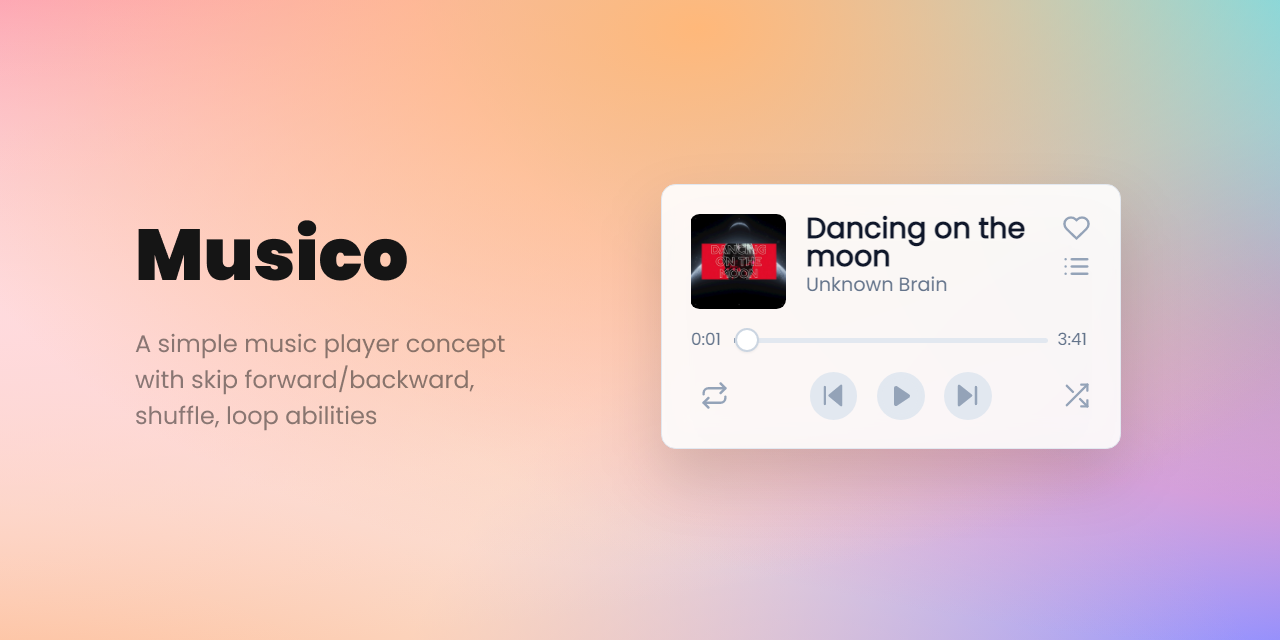
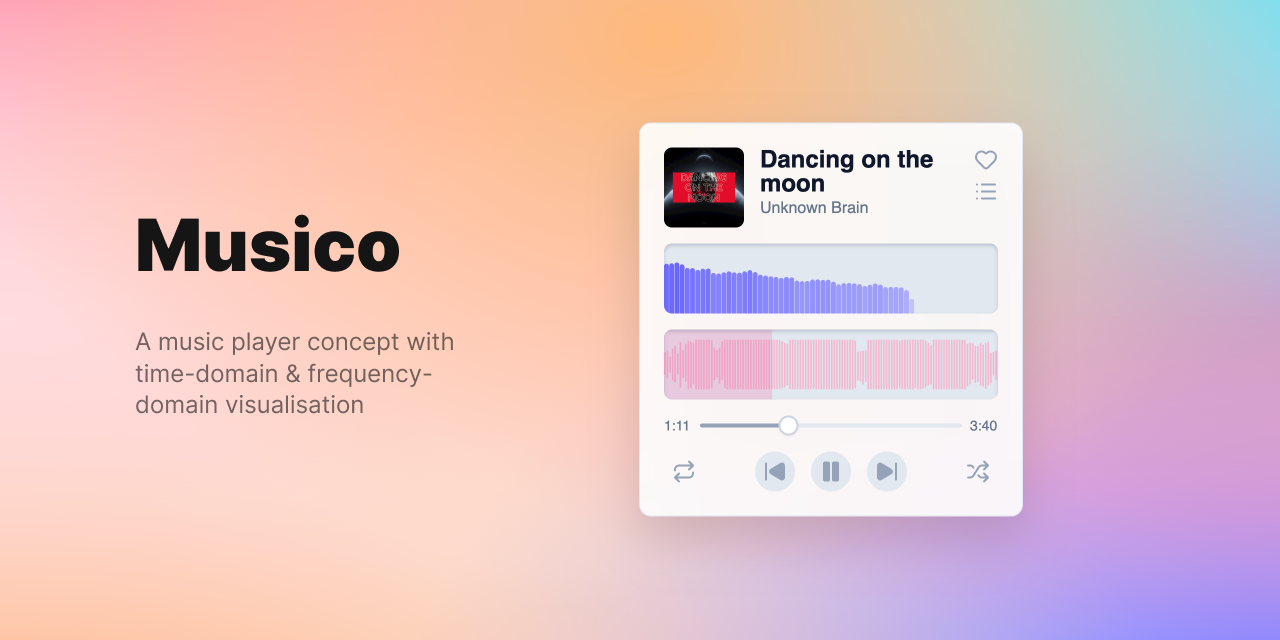
Time-domain & frequency-domain visualisation

Changed region(s): [[0.5, 0.1875, 0.875, 0.8438], [0.0938, 0.5, 0.4062, 0.6875], [0.0938, 0.3438, 0.3438, 0.4375]]

diff --git a/src/store/player.ts b/src/store/player.ts
@@ -39,6 +39,8 @@ const initialState: T_PlayerState = {
 
 class PlayerStore {
   private _audio: HTMLAudioElement;
+  private _audioContext: AudioContext | null;
+  private _source: MediaElementAudioSourceNode | null;
   private _snapshot: T_PlayerState;
   private _listeners: Set<() => void>;
 
@@ -75,6 +77,8 @@ class PlayerStore {
     this._snapshot = initialState;
     this._listeners = new Set();
     this.loadTrack(0);
+    this._source = null;
+    this._audioContext = null;
 
     this._audio.addEventListener("loadstart", this._handleLoading);
     this._audio.addEventListener("canplay", this._handleReady);
@@ -106,6 +110,12 @@ class PlayerStore {
       return;
     }
     this._audio.play();
+    if (!this._source) {
+      const { source, audioContext } = visualizeFreq(this._audio);
+      this._source = source;
+      this._audioContext = audioContext;
+    }
+
     this.emit({ isPlaying: true });
   }
   private pause() {
@@ -119,6 +129,7 @@ class PlayerStore {
     const track = this._snapshot.playlist[newIndex].audio;
     this._audio.src = track;
     this._audio.load();
+    getAudioContext(track);
 
     this.emit({ currentIndex: newIndex, status: "loading", trackTime: 0, duration: 0 });
   }
@@ -199,6 +210,15 @@ class PlayerStore {
     if (isAllSame) return;
     this.emit({ shuffleList: [...newOrder] });
   };
+  // public getAudioStream = () => {
+  //   visualizeFreq(frequencyBufferLength, analyser, frequencyData);
+
+  //   return {
+  //     frequencyBufferLength,
+  //     analyser,
+  //     frequencyData,
+  //   };
+  // };
 }
 
 export const playerInstance = new PlayerStore();
@@ -213,9 +233,128 @@ export function usePlayerStore() {
     playPrev: playerInstance.playPrev,
     updateTrackTime: playerInstance.updateTrackTime,
     reorderPlaylist: playerInstance.reorderPlaylist,
+    // getAudioStream: playerInstance.getAudioStream,
   };
   return {
     state,
     dispatch,
   };
+}
+
+function visualizeFreq(audioElement: HTMLAudioElement) {
+  const audioContext = new AudioContext();
+  const analyser = audioContext.createAnalyser();
+  analyser.fftSize = 128;
+
+  const frequencyBufferLength = analyser.frequencyBinCount;
+  const frequencyData = new Uint8Array(frequencyBufferLength);
+  const source = audioContext.createMediaElementSource(audioElement);
+  source.connect(analyser);
+  analyser.connect(audioContext.destination);
+
+  /* Canvas related stuff */
+  const canvas = document.getElementById("canvas") as HTMLCanvasElement;
+  canvas.width = canvas.clientWidth * 5;
+  canvas.height = canvas.clientHeight * 5;
+
+  const canvasContext = canvas.getContext("2d")!;
+  // const channelData = audioBuffer.getChannelData(0);
+
+  // const numberOfChunks = 400;
+  // const chunkSize = Math.ceil(channelData.length / numberOfChunks);
+
+  canvasContext.fillStyle = "#5271FF";
+  // const center = canvas.height / 2;
+  // const barWidth = canvas.width / numberOfChunks;
+  const barWidth = canvas.width / frequencyBufferLength;
+
+  function draw() {
+    requestAnimationFrame(draw);
+    canvasContext?.clearRect(0, 0, canvas.width, canvas.height);
+    analyser.getByteFrequencyData(frequencyData);
+
+    // for (let i = 0; i < numberOfChunks; i++) {
+    for (let i = 0; i < frequencyBufferLength; i++) {
+      // const chunk = channelData.slice(i * chunkSize, (i + 1) * chunkSize);
+      // const min = Math.min(...chunk) * 20;
+      // const max = Math.max(...chunk) * 20;
+
+      // canvasContext?.fillRect(
+      //   i * barWidth,
+      //   center - max,
+      //   barWidth,
+      //   max + Math.abs(min),
+      // );
+      canvasContext.fillStyle = `rgba(107, 102, 255, ${frequencyData[i] / 255})`;
+      canvasContext?.roundRect(
+        i * barWidth,
+        canvas.height - frequencyData[i],
+        barWidth - 2,
+        frequencyData[i],
+        [50, 50, 0, 0]
+      );
+      canvasContext.fill();
+      canvasContext.beginPath();
+    }
+  }
+
+  draw();
+  return { source, audioContext };
+}
+
+function visualizeTime(audioBuffer: AudioBuffer) {
+  const canvas = document.getElementById("canvas_time") as HTMLCanvasElement;
+
+  const dpr = window?.devicePixelRatio || 1;
+
+  const DISPLAY_WIDTH = canvas.clientWidth;
+  const DISPLAY_HEIGHT = canvas.clientHeight;
+
+  canvas.width = DISPLAY_WIDTH * dpr;
+  canvas.height = DISPLAY_HEIGHT * dpr;
+
+  canvas.style.width = `${DISPLAY_WIDTH}px`;
+  canvas.style.height = `${DISPLAY_HEIGHT}px`;
+
+  const canvasContext = canvas.getContext("2d")!;
+  canvasContext.scale(dpr, dpr);
+
+  const channelData = audioBuffer.getChannelData(0);
+
+  const numberOfChunks = 128;
+  const chunkSize = Math.ceil(channelData.length / numberOfChunks);
+
+  canvasContext.fillStyle = "rgba(255, 133, 173, 0.5)";
+  const center = DISPLAY_HEIGHT / 2;
+  const amplitude = center - 10;
+
+  const barWidth = DISPLAY_WIDTH / numberOfChunks;
+
+  for (let i = 0; i < numberOfChunks; i++) {
+    let min = Infinity;
+    let max = -Infinity;
+    for (let j = i * chunkSize; j < Math.min((i + 1) * chunkSize, channelData.length); j++) {
+      min = Math.min(min, channelData[j]);
+      max = Math.max(max, channelData[j]);
+    }
+    min = min * amplitude;
+    max = max * amplitude;
+
+    canvasContext?.roundRect(i * barWidth, center - max, barWidth - 1, max + Math.abs(min), 6);
+  }
+  canvasContext.fill();
+}
+
+async function getAudioContext(src: string) {
+  try {
+    const response = await fetch(src);
+    const blob = await response.blob();
+    const arrayBuffer = await blob.arrayBuffer();
+    const audioContext = new AudioContext({ sinkId: { type: "none" } } as any);
+
+    const audioBuffer = await audioContext.decodeAudioData(arrayBuffer);
+    visualizeTime(audioBuffer);
+  } catch (error) {
+    console.error(error);
+  }
 }

diff --git a/src/components/App.tsx b/src/components/App.tsx
@@ -1,5 +1,5 @@
 import { AnimatePresence } from "motion/react";
-import { useState } from "react";
+import { useEffect, useState } from "react";
 import { usePlayerStore } from "../store/player";
 import { LoopButton, NextButton, PrevButton, ShuffleButton } from "./Buttons";
 import PlayButton from "./PlayButton";
@@ -7,8 +7,13 @@ import Queue from "./Queue";
 import SongDetails from "./SongDetails";
 import TrackTime from "./TrackTime";
 
+// const DISPLAY_WIDTH = 334;
+const DISPLAY_HEIGHT = 70;
+
 function App() {
   const [isQueueOpen, setIsQueueOpen] = useState(false);
+  const { state } = usePlayerStore();
+  const isTrackNotLoaded = isNaN(state.trackTime / state.duration);
 
   return (
     <div
@@ -26,6 +31,30 @@ function App() {
     >
       <div className="flex flex-col gap-4 border border-slate-200 rounded-xl p-6 bg-white/90 w-96 drop-shadow-2xl backdrop-blur-md">
         <SongDetails isQueueOpen={isQueueOpen} setIsQueueOpen={setIsQueueOpen} />
+        <canvas id="canvas" className="h-[70px] w-[334px] bg-slate-200 rounded-lg shadow-inner shadow-slate-800/20" />
+        <div
+          className="rounded-lg relative overflow-hidden"
+          style={{
+            width: "100%",
+            height: DISPLAY_HEIGHT,
+          }}
+        >
+          <canvas
+            id="canvas_time"
+            className="bg-slate-200 absolute top-0 left-0 right-0 bottom-0 shadow-inner shadow-slate-800/20"
+            style={{
+              width: "100%",
+              height: DISPLAY_HEIGHT,
+            }}
+          />
+          <div
+            className="bg-pink-500/20 top-0 left-0 absolute w-full mix-blend-darken transition-transform"
+            style={{
+              height: DISPLAY_HEIGHT,
+              transform: `translateX(-${isTrackNotLoaded ? 100 : 100 - (state.trackTime / state.duration) * 100}%)`,
+            }}
+          />
+        </div>
         <TrackTime />
         <ButtonStack />
       </div>

diff --git a/README.md b/README.md
@@ -1,11 +1,30 @@
 # Musico
 
-_A simple music player concept with skip forward/backward, shuffle, loop abilities_
+_A music player concept for audio analysation on the web_
 
 <img src="./public/project.png" alt="project">
 
+## Objective
+
+The goal of this project to test the limits of current browser abilities in terms of audio analysation. The audio part so far has been completely built from scratch with just the Web Audio API. The visualisation is built on Canvas API. So it has been tested on Blink based browsers (Edge, Chrome etc.) and Safari. Firefox testing yet to do.
+
+### Features so far
+
+- Full time-domain & real-time frequency-domain visualisation
+- Music player with play next/prev, skip forward/backward, shuffle, repeat features
+
+### Few Possibilities
+
+- [ ] Build equaliser
+- [ ] Allow visualisation from user files and/or provided direct file links
+- [ ] Drum pad
+- [ ] Lo-fi mix tape
+- [ ] Experiment with applying filters on streamed audio
+- [ ] Experiment with going completely off the CPU (and Web Audio API obviously) with webGPU. With compute shaders it is possible in theory but I will have to see
+
 ## Built with
 
+- Web Music API
 - React
 - Vite
 - Tailwind CSS
